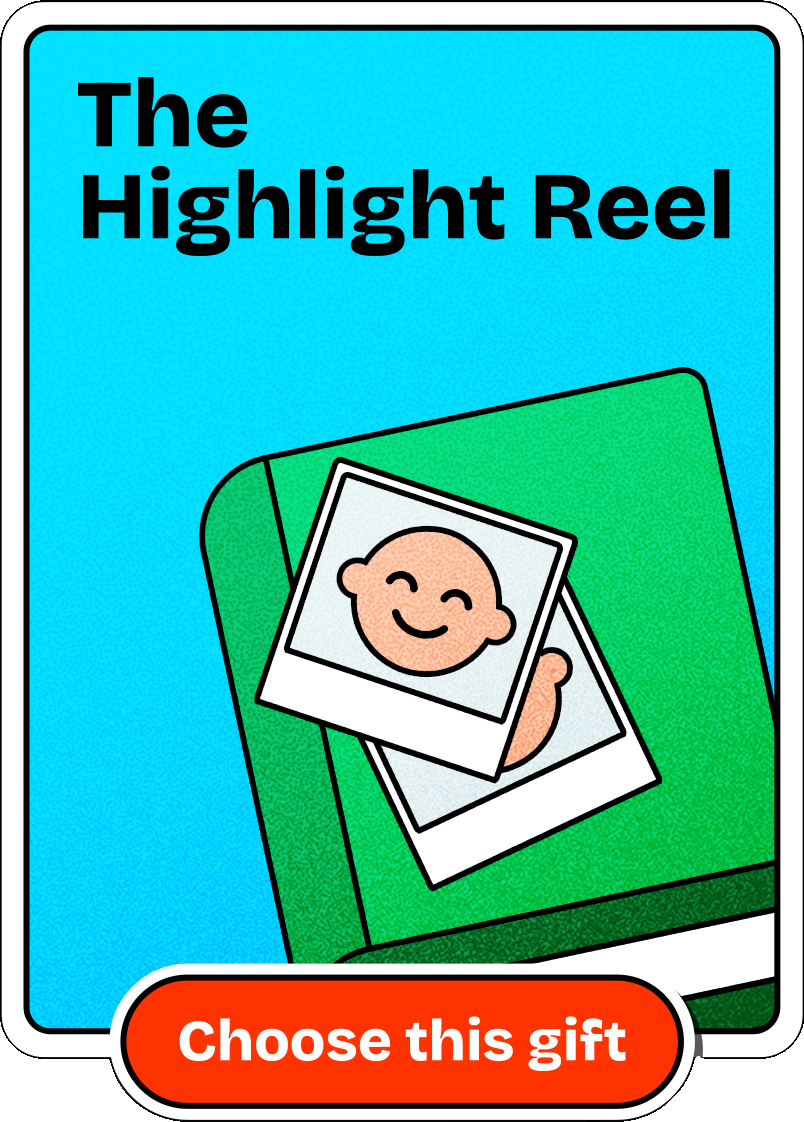
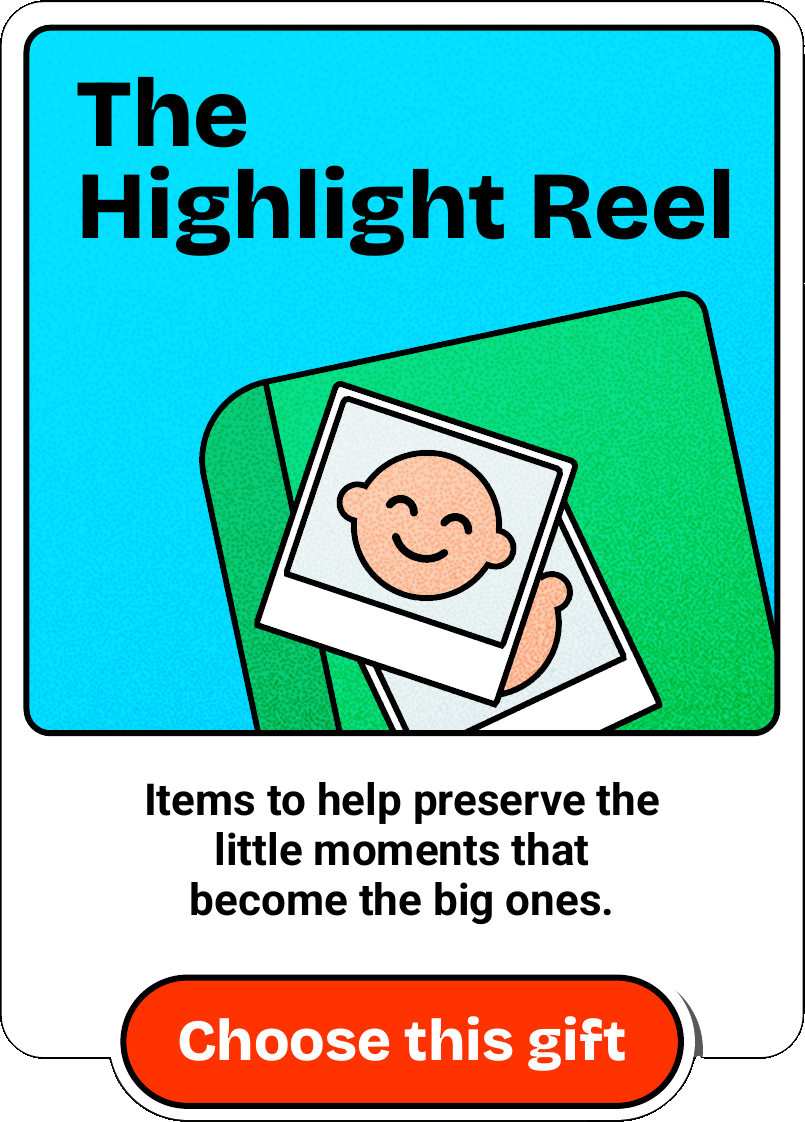
New gift-card fronts with description bands (Aug 18 deck)
- The Aug 18 deck PDF's only real change vs the shipped build: the three
  gift fronts now frame the art in a bordered square with a white
  description band under it (Pacers baby essentials / preserve the
  little moments / chef-made CookUnity meals) above the baked
  Choose-this-gift button. Re-extracted at the same 805x1122; ?v=3.
- frontAlt strings updated to carry the new descriptions
- extract-gift-cards.py: find_cards now merges overlapping bright
  components — the new bordered art square reads as its own component
  (bigger than the white card ring), so top-3-by-size returned just the
  art squares
- Everything else in the deck is pixel-identical to what's live
  (landing letter, board, backs; board differs only in an 8px
  frame-edge AA strip and a caption nudge hidden under the year-card
  overlay). "favourite" in the deck stays "favorite" per eeac7dc.

diff --git a/js/config.js b/js/config.js
@@ -139,23 +139,26 @@ const KIT = {
     {
       name: "The Rookie Kit",
       back: "assets/v3/gift-rookie-back.png?v=2",
-      front: "assets/v3/gift-rookie-front.png?v=2",
+      front: "assets/v3/gift-rookie-front.png?v=3",
       backAlt: "Face-down gift card with a basketball sticker — flip to reveal",
-      frontAlt: "The Rookie Kit — a Pacers baby tee. Click to choose this gift.",
+      frontAlt:
+        "The Rookie Kit — a collection of Indiana Pacers–themed baby essentials to welcome the newest little fan. Click to choose this gift.",
     },
     {
       name: "The Highlight Reel",
       back: "assets/v3/gift-highlight-back.png?v=2",
-      front: "assets/v3/gift-highlight-front.png?v=2",
+      front: "assets/v3/gift-highlight-front.png?v=3",
       backAlt: "Face-down gift card with a photo-album sticker — flip to reveal",
-      frontAlt: "The Highlight Reel — a baby photo album. Click to choose this gift.",
+      frontAlt:
+        "The Highlight Reel — items to help preserve the little moments that become the big ones. Click to choose this gift.",
     },
     {
       name: "The Sixth Man",
       back: "assets/v3/gift-sixthman-back.png?v=2",
-      front: "assets/v3/gift-sixthman-front.png?v=2",
+      front: "assets/v3/gift-sixthman-front.png?v=3",
       backAlt: "Face-down gift card with a serving-dish sticker — flip to reveal",
-      frontAlt: "The Sixth Man — a CookUnity gift card. Click to choose this gift.",
+      frontAlt:
+        "The Sixth Man — chef-made CookUnity meals delivered to the door. Click to choose this gift.",
     },
   ],
 

diff --git a/tools/extract-gift-cards.py b/tools/extract-gift-cards.py
@@ -12,7 +12,13 @@ def lum(p):
     return 0.299 * p[0] + 0.587 * p[1] + 0.114 * p[2]
 
 def find_cards(path):
-    """3 largest bright components at low res -> padded full-res bboxes."""
+    """Bright components at low res, merged where their bboxes overlap,
+    -> the 3 largest padded full-res card bboxes.
+
+    The merge matters: since the Aug 18 deck the card fronts frame the art
+    in a black border, so the art square and the white card ring read as
+    SEPARATE bright components (and the art square is the bigger one) —
+    taking the 3 largest raw components returns just the art squares."""
     im = Image.open(path).convert("RGB")
     D = 4
     sm = im.resize((im.width // D, im.height // D), Image.NEAREST)
@@ -38,12 +44,25 @@ def find_cards(path):
                     if 0 <= nx < sw and 0 <= ny < sh and not seen[ny][nx] and lum(px[nx, ny]) >= DARK:
                         seen[ny][nx] = True
                         stack.append((nx, ny))
-            comps.append((n, bx0, by0, bx1, by1))
-    comps.sort(reverse=True)
-    boxes = []
-    for n, bx0, by0, bx1, by1 in comps[:3]:
-        boxes.append((max(0, bx0*D-10), max(0, by0*D-10),
-                      min(im.width, (bx1+1)*D+10), min(im.height, (by1+1)*D+10)))
+            if n > 400:  # specks (heading text, stickers) stay out of the merge
+                comps.append([bx0, by0, bx1, by1, n])
+
+    def overlaps(a, b):
+        return not (a[2] < b[0] or b[2] < a[0] or a[3] < b[1] or b[3] < a[1])
+
+    merged = []
+    for c in sorted(comps, key=lambda c: -c[4]):
+        for m in merged:
+            if overlaps(c, m):
+                m[0] = min(m[0], c[0]); m[1] = min(m[1], c[1])
+                m[2] = max(m[2], c[2]); m[3] = max(m[3], c[3])
+                break
+        else:
+            merged.append(c[:4])
+    merged = sorted(merged, key=lambda m: -((m[2]-m[0]) * (m[3]-m[1])))[:3]
+    boxes = [(max(0, m[0]*D-10), max(0, m[1]*D-10),
+              min(im.width, (m[2]+1)*D+10), min(im.height, (m[3]+1)*D+10))
+             for m in merged]
     boxes.sort(key=lambda b: b[0])  # left -> right
     return im, boxes
 
